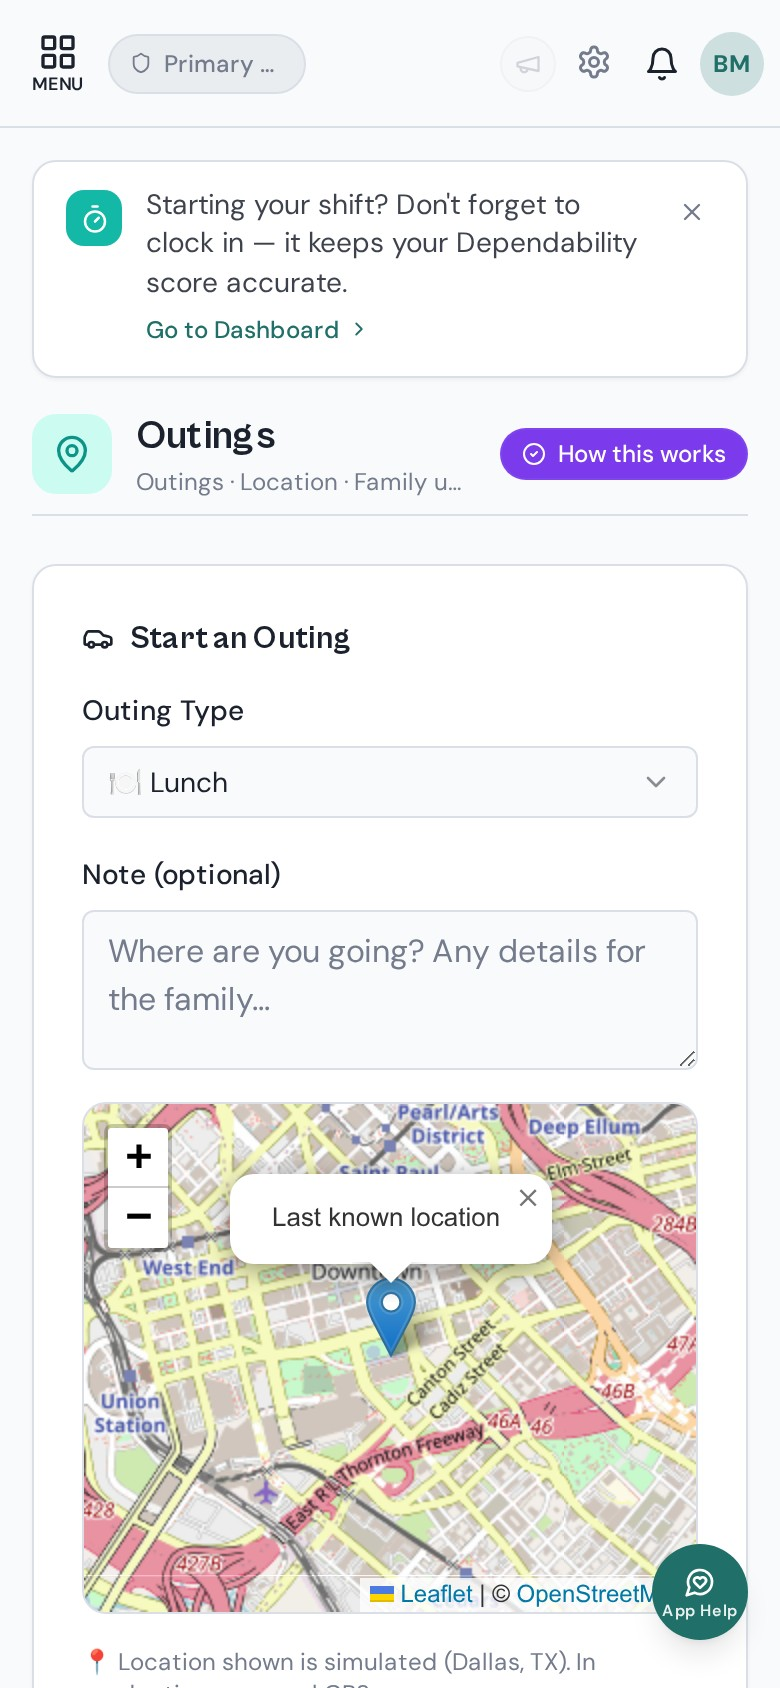
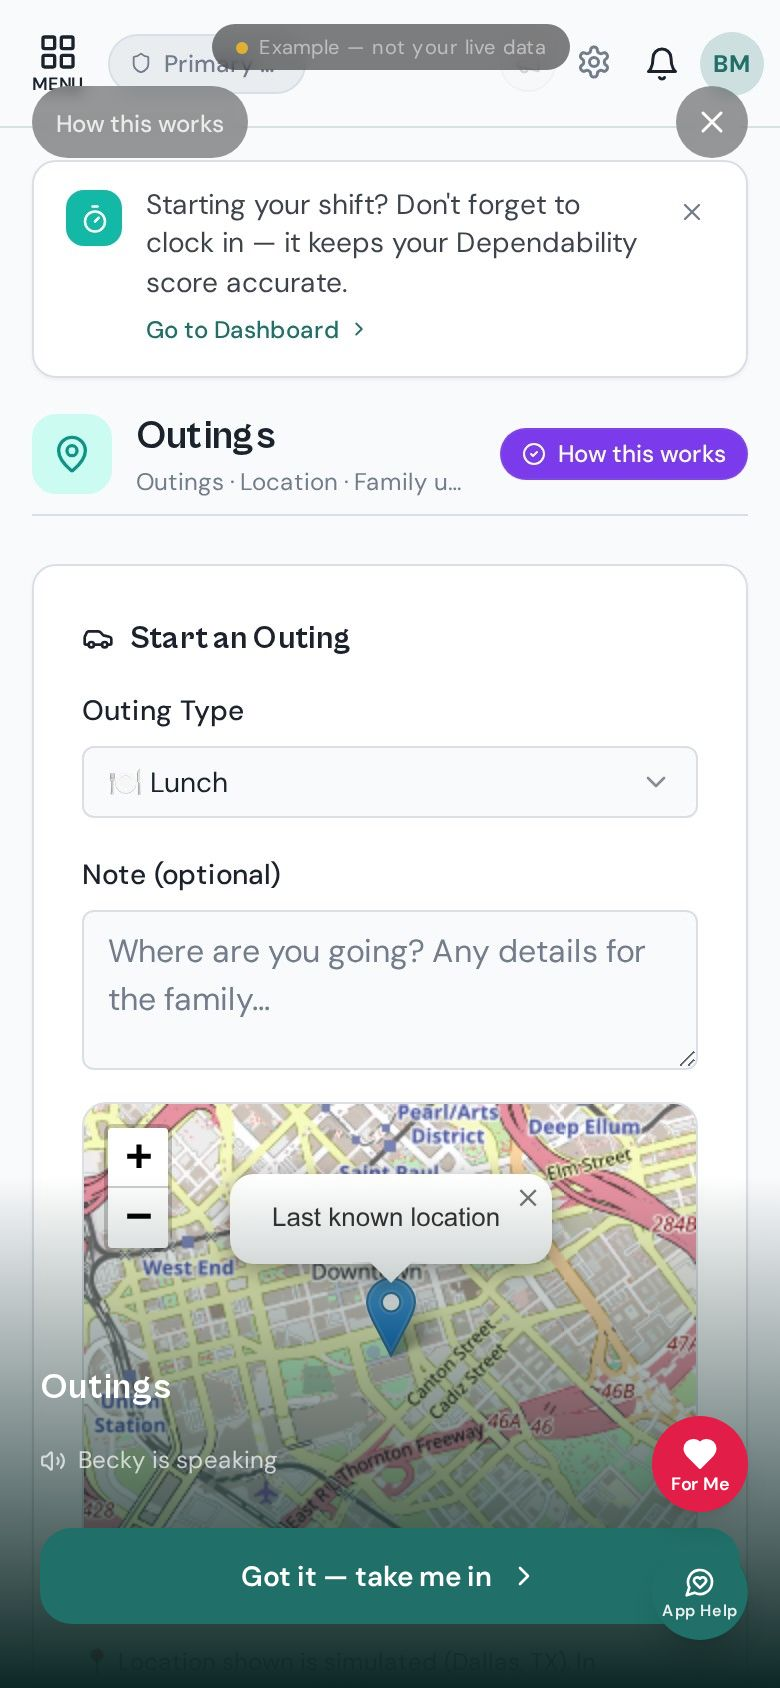
DEV_ALWAYS_SHOW=true for review; STATIC_BASE for all screenshots

Changed region(s): [[0.0, 0.7085, 1.0, 1.0], [0.0308, 0.0, 0.7385, 0.0924], [0.8615, 0.0308, 0.9538, 0.0924]]

diff --git a/client/src/components/ModuleIntro.tsx b/client/src/components/ModuleIntro.tsx
@@ -64,7 +64,7 @@ const LESSONS: Record<ModuleKey, ModuleLesson> = {
   },
   "family-profile": {
     title: "Your Profile",
-    image: `${STATIC_BASE}/university/new_fc_family_profile.jpg`,
+    image: `${STATIC_BASE}/university/new_cg_client_profile.jpg`,
     narration: "This is where you manage your own information in the app. Your name, phone number, and relationship to the person in care are all here. In Notification Preferences, you can choose which types of updates you want to be alerted about — turn categories on or off based on what's most useful to you. Under Care Circle, you can invite other family members so they have their own access. Account Settings lets you adjust your language and time zone. It's a quick setup and worth spending a few minutes on.",
     familyNarration: "This is where you manage your own information in the app. Your name, phone number, and relationship to the person in care are all here. In Notification Preferences, you can choose which types of updates you want to be alerted about — turn categories on or off based on what's most useful to you. Under Care Circle, you can invite other family members so they have their own access. Account Settings lets you adjust your language and time zone. It's a quick setup and worth spending a few minutes on.",
   },
@@ -210,7 +210,7 @@ export default function ModuleIntro({ moduleKey }: ModuleIntroProps) {
   // ── Should we show? ──────────────────────────────────────────────────────
   // DEV MODE: always show on every visit so the team can review all intros.
   // Flipped to false for beta — real users only see each intro once.
-  const DEV_ALWAYS_SHOW = false;
+  const DEV_ALWAYS_SHOW = true; // review mode — flip false before launch
 
   useEffect(() => {
     const DEMO_KEY = `cnp_seen_module_${activeUser.id}_${moduleKey}`;
